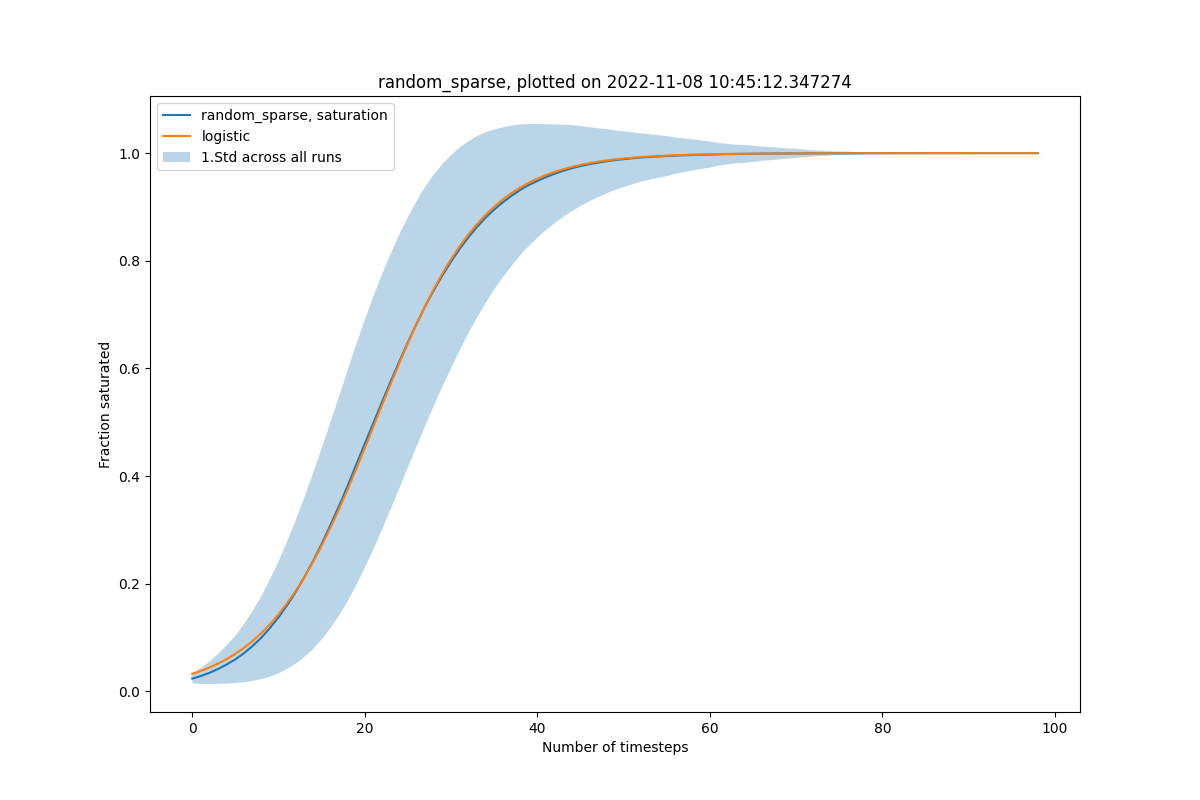
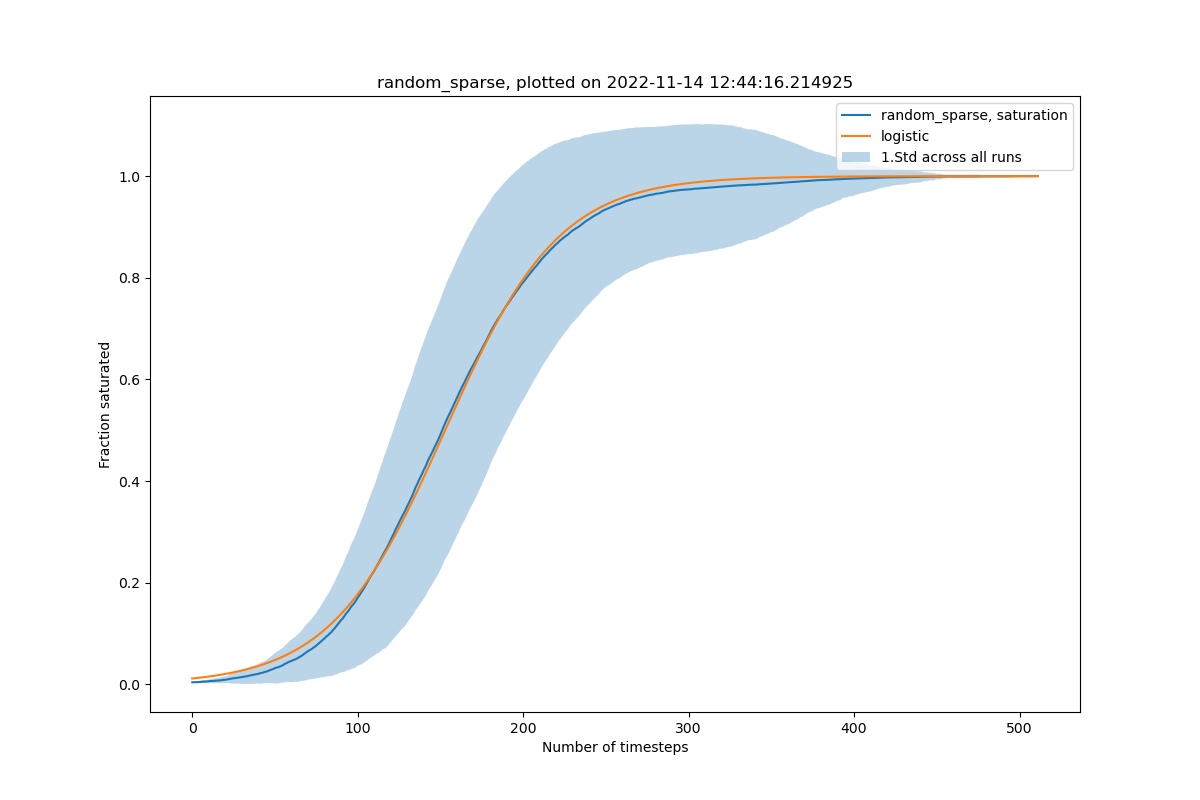
added floating global variables in main to config

diff --git a/main.py b/main.py
@@ -14,14 +14,14 @@ from viz.graph_plot import plot_saturation
 
 def simulate_saturation(params) -> Tuple[List[float], List[float]]:
     # I hate this
-    num_nodes, num_initial_agents, structure_name = params
+    num_nodes, num_initial_agents, structure_name, transmittion_prob = params
     x = ErdosGraphSimulator(
         num_nodes=num_nodes,
         num_agents=num_initial_agents,
         structure_name=structure_name,
     )
     _, iterations, fraction_infected = x.infect_till_saturation(
-        infection_probability=1
+        infection_probability= transmittion_prob
     )
     return iterations, fraction_infected
 
@@ -80,12 +80,12 @@ if __name__ == "__main__":
     configuration.read(parsedArgs.config_file)
 
     final_dicts = []
-    global num_initial_agents, num_nodes, structure_name
     conf = configuration["RUN"]
     num_initial_agents = int(conf["initial_agents"])
     num_nodes = int(conf["nodes"])
     structure_name = conf["structure"]
     simulation_iters = int(conf['simulation_iterations'])
+    transmittion_prob = float(conf['transmittion_prob'])
 
     if parsedArgs.cmd is not None:
         parsedArgs.func(parsedArgs, configuration)
@@ -95,7 +95,7 @@ if __name__ == "__main__":
 
     with multiprocessing.Pool(processes=multiprocessing.cpu_count() * 2 - 1) as p:
         iterThis = itertools.repeat(
-            (num_nodes, num_initial_agents, structure_name), simulation_iters
+            (num_nodes, num_initial_agents, structure_name, transmittion_prob), simulation_iters
         )
         with tqdm.tqdm(total=simulation_iters) as pbar:
             for _ in p.imap_unordered(simulate_saturation, iterThis):
@@ -121,7 +121,6 @@ if __name__ == "__main__":
         "kurtosis": scipy.stats.kurtosis(convergence_steps),
         "num_nodes": num_nodes,
     }
-    print(stats_dict)
 
     plot_saturation(
             saturation_fraction_mean= saturation_timestep,

diff --git a/graph_structure/erdos_graph.py b/graph_structure/erdos_graph.py
@@ -6,6 +6,7 @@ import multiprocessing
 import scipy
 import pandas as pd
 import itertools
+from typing import List 
 
 from structure_generation.adj_matrix_gen import GraphStructureGenerator
 
@@ -18,6 +19,7 @@ class ErdosGraphSimulator(object):
         num_timestep_edges: int = 4,
         structure_name : str = "fully_connected"
     ):
+
         self.num_nodes: int = num_nodes
         self.num_agents: int = num_agents
         self.num_timestep_edges: int = num_timestep_edges
@@ -44,7 +46,7 @@ class ErdosGraphSimulator(object):
 
     def infect_till_saturation(
         self, infection_probability: float = 1
-    ) -> Tuple[np.ndarray, int]:
+    ) -> Tuple[List[np.ndarray], int, List[float]]:
         """
         Procedure to measure time to infection saturation for a given set of initial conditions
         in a graph structure.

diff --git a/viz/graph_plot.py b/viz/graph_plot.py
@@ -9,7 +9,7 @@ def plot_saturation(
     saturation_fraction_std: np.ndarray,
     timesteps: np.array = None,
     graph_type: str = "fully_connected",
-    save_filename: bool = None
+    save_filename: bool = False
 ):
 
     timesteps = [x for x in range(
@@ -17,6 +17,8 @@ def plot_saturation(
 
     def logistic(x, k, x0):
         return 1.0 / (1.0 + np.exp(-k * (x - x0)))
+
+    print(saturation_fraction_mean)
 
     from scipy.optimize import curve_fit
     p, cov = curve_fit(logistic, timesteps, saturation_fraction_mean)
